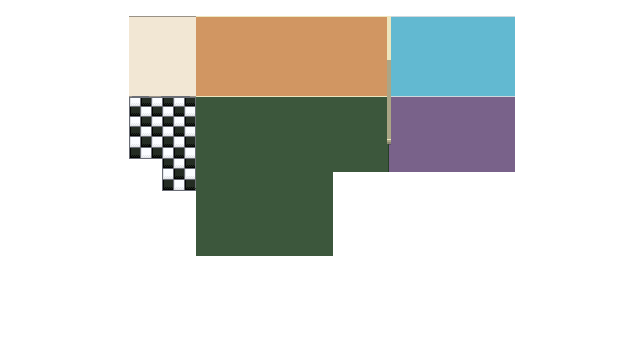
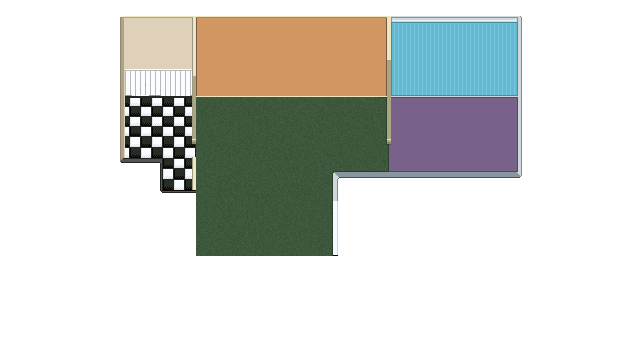
Some new assets, faster walk, better map

Changed region(s): [[0.1875, 0.0306, 0.3125, 0.55], [0.5, 0.0306, 0.8125, 0.5806]]

diff --git a/apartment/src/layout.rs b/apartment/src/layout.rs
@@ -16,6 +16,7 @@ use main_game_lib::{
     vec2_ext::Vec2Ext,
 };
 use rand::{thread_rng, Rng};
+use smallvec::SmallVec;
 
 use crate::{consts::*, prelude::*, Apartment};
 
@@ -223,7 +224,7 @@ fn spawn(
 
     // cloud atlas is rendered on top of the bg but below the furniture
 
-    let mut cloud_atlas_bundle = |x: f32| {
+    let mut cloud_atlas_bundle = |position: Pos2| {
         (
             LayoutEntity,
             RenderLayers::layer(render_layer::BG),
@@ -250,7 +251,7 @@ fn spawn(
                     thread_rng().gen_range(0..CLOUD_FRAMES),
                 ),
                 transform: Transform::from_translation(
-                    vec2(x, 113.5).extend(zindex::CLOUD_ATLAS),
+                    position.extend(zindex::CLOUD_ATLAS),
                 ),
                 ..default()
             },
@@ -258,9 +259,11 @@ fn spawn(
     };
 
     cmd.spawn(Name::from("Bedroom cloud atlas"))
-        .insert(cloud_atlas_bundle(-70.5));
+        .insert(cloud_atlas_bundle(vec2(-70.5, 113.5)));
     cmd.spawn(Name::from("Kitchen cloud atlas"))
-        .insert(cloud_atlas_bundle(96.0));
+        .insert(cloud_atlas_bundle(vec2(96.0, 113.5)));
+    cmd.spawn(Name::from("Bathroom cloud atlas"))
+        .insert(cloud_atlas_bundle(vec2(-176.0, 145.0)));
 
     // bedroom door opens (sprite index 2) when the player is near the door
     cmd.spawn((
@@ -324,6 +327,41 @@ fn spawn(
             ..default()
         },
     ));
+
+    cmd.spawn((
+        Name::from("Vending machine"),
+        LayoutEntity,
+        HallwayEntity,
+        RenderLayers::layer(render_layer::BG),
+        SpriteSheetBundle {
+            texture_atlas: texture_atlases.add(TextureAtlas::from_grid(
+                asset_server.load(assets::VENDING_MACHINE_ATLAS),
+                vec2(30.0, 55.0),
+                4,
+                1,
+                Some(vec2(1.0, 0.0)),
+                None,
+            )),
+            sprite: TextureAtlasSprite {
+                index: 0,
+                color: PRIMARY_COLOR,
+                ..default()
+            },
+            transform: Transform::from_translation(
+                vec2(-268.0, -60.0).extend(zindex::ELEVATOR),
+            ),
+            ..default()
+        },
+    ));
+}
+
+#[derive(Reflect)]
+struct Door {
+    open_criteria: SmallVec<[DoorOpenCriteria; 4]>,
+}
+
+enum DoorOpenCriteria {
+    Character(common_story::Character),
 }
 
 /// When player gets near the door, the door opens.
@@ -365,6 +403,7 @@ fn despawn(mut cmd: Commands, query: Query<Entity, With<LayoutEntity>>) {
     }
 }
 
+// TODO: redo
 fn smoothly_transition_hallway_color(
     map: Res<common_top_down::TileMap<Apartment>>,
 
@@ -433,7 +472,7 @@ fn smoothly_transition_hallway_color(
 
 impl IntoMap for Apartment {
     fn bounds() -> [i32; 4] {
-        [-70, 40, -30, 20]
+        [-80, 40, -30, 20]
     }
 
     fn asset_path() -> &'static str {

diff --git a/main_game_lib/src/lib.rs b/main_game_lib/src/lib.rs
@@ -6,7 +6,7 @@ pub mod prelude;
 pub mod state;
 pub mod vec2_ext;
 
-use bevy::{app::AppExit, prelude::*, window::WindowTheme};
+use bevy::{app::AppExit, prelude::*};
 use bevy_inspector_egui::quick::{StateInspectorPlugin, WorldInspectorPlugin};
 use bevy_pixel_camera::PixelCameraPlugin;
 pub use common_action;
@@ -54,11 +54,6 @@ pub fn windowed_app() -> App {
             .set(WindowPlugin {
                 primary_window: Some(Window {
                     title: "Ciesin".into(),
-                    window_theme: Some(WindowTheme::Dark),
-                    enabled_buttons: bevy::window::EnabledButtons {
-                        maximize: false,
-                        ..Default::default()
-                    },
                     mode: bevy::window::WindowMode::BorderlessFullscreen,
                     ..default()
                 }),

diff --git a/common/assets/src/paths.rs b/common/assets/src/paths.rs
@@ -25,8 +25,8 @@ pub mod apartment {
     pub const BEDROOM_MAIN_DOOR: &str = "apartment/brown_door_atlas.png";
     pub const HALLWAY_DOOR: &str = "apartment/black_door.png";
     pub const ELEVATOR_ATLAS: &str = "apartment/elevator_atlas.png";
-
-    pub const WINNIE_ATLAS: &str = "apartment/winnie_atlas.png";
+    pub const VENDING_MACHINE_ATLAS: &str =
+        "apartment/vending_machine_atlas.png";
 
     pub const WINNIE_SLEEPING: &str = "apartment/sleeping.png";
     pub const WINNIE_MEDITATING: &str = "apartment/meditating.png";

diff --git a/main_game/src/main.rs b/main_game/src/main.rs
@@ -1,6 +1,7 @@
 use bevy::prelude::*;
 use main_game_lib::{
     common_loading_screen::{LoadingScreenSettings, LoadingScreenState},
+    prelude::from_millis,
     GlobalGameState,
 };
 
@@ -15,6 +16,8 @@ fn main() {
     ) {
         // just a quick loading screen, no bg
         cmd.insert_resource(LoadingScreenSettings {
+            fade_loading_screen_in: from_millis(50),
+            fade_loading_screen_out: from_millis(500),
             bg_image_asset: None,
             ..default()
         });

diff --git a/common/story/src/lib.rs b/common/story/src/lib.rs
@@ -101,7 +101,10 @@ impl AssetList for DialogAssets {
 impl Character {
     /// How long does it take to move one square.
     pub fn default_step_time(self) -> Duration {
-        Duration::from_millis(50)
+        match self {
+            Character::Winnie => Duration::from_millis(35),
+            _ => Duration::from_millis(50),
+        }
     }
 
     /// Static str name of the character.
